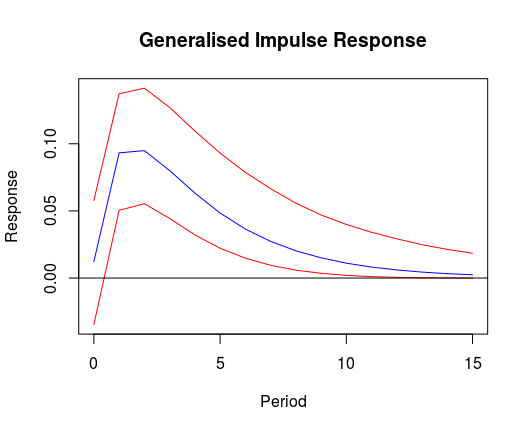
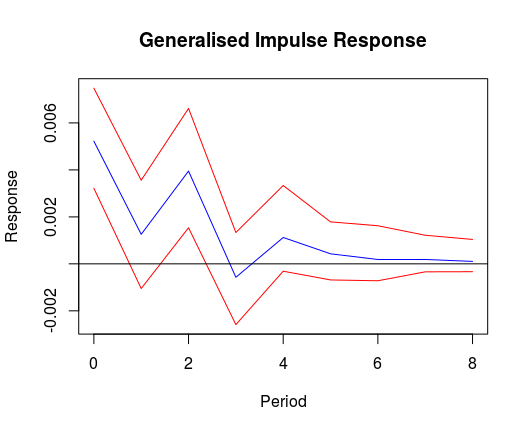
README Update

diff --git a/README.md b/README.md
@@ -28,63 +28,44 @@ Usage
 
 This example covers the estimation of a simple BVAR model. For further examples on time varying parameter (TVP), stochastic volatility (SV), and vector error correction models as well as shrinkage methods like stochastic search variable selection (SSVS) or Bayesian variable selection (BVS) see the vignettes of the package.
 
-### Generate an artificial sample
+### Data
 
-The artifical data set for this example is based on the process
-
-$$y\_{t} = \\pmatrix 0.4 & 0.3 & 0 \\\\ 0 & 0.6 & 0.1 \\\\ 0 & 0.2 & 0.2 \\pmatrix y\_{t-1} + u\_t.$$
-
-``` r
-# Number of endogenous variables
-k <- 3
-
-# Define A
-A <- matrix(c(.4, 0, 0, .3, .6, .2, 0, .1, .2), k)
-
-# Number of observations
-t <- 150
-
-# Set seed of random number generator for reproducibility
-set.seed(1234567)
-
-# Generate matrix with empty values
-y <- matrix(NA, 3, t + 1)
-
-# Initial value of the series
-y[, 1] <- rnorm(k, 0, .3)
-
-# Recursively calculate values of the series
-for (i in 2:(t + 1)) {
-  y[, i] <- A %*% y[, i - 1] + rnorm(k, 0, .3)
-}
-
-data <- ts(t(y)) # Transform into a 'time series' object
-dimnames(data)[[2]] <- c("s1", "s2", "s3") # Rename variables
-
-plot(data) # Plot the series
-```
-
-<img src="README_files/figure-markdown_github/art-data-1.png" style="display: block; margin: auto;" />
-
-### Prepare data for estimation
+To illustrate the estimation process the dataset E1 from Lütkepohl (2007) is used. It contains data on West German fixed investment, disposable income and consumption expenditures in billions of DM from 1960Q1 to 1982Q4.
 
 ``` r
 library(bvartools)
 
-temp <- gen_var(data, p = 1, deterministic = "none")
+data("e1")
+e1 <- diff(log(e1))
 
-y <- temp$y
-x <- temp$x
+plot(e1) # Plot the series
 ```
 
+<img src="README_files/figure-markdown_github/data-1.png" style="display: block; margin: auto;" />
+
+### Prepare data for estimation
+
+The `gen_var` function produces the inputs `y` and `x` for the BVAR estimator, where `y` is the matrix of dependent variables and `x` is the matrix of regressors.
+
+``` r
+data <- gen_var(e1, p = 2, deterministic = "const")
+
+y <- data$y[, 1:73]
+x <- data$x[, 1:73]
+```
+
+As in Lütkepohl (2007) only the first 73 observations are used.
+
 ### Estimation
+
+The following code sets up a simple Gibbs sampler algorithm.
 
 ``` r
 iter <- 10000 # Number of iterations of the Gibbs sampler
 burnin <- 2000 # Number of burn-in draws
 
 t <- ncol(y) # Number of observations
-k <- nrow(y) # Number of endogenous variables
+k <- NROW(y) # Number of endogenous variables
 nvars <- k * nrow(x) # Number of estimated coefficients
 
 # Set priors
@@ -103,7 +84,6 @@ Sigma_draw <- solve(Sigma_i_draw)
 store <- iter - burnin
 draws_A <- matrix(NA, nvars, store)
 draws_Sigma <- matrix(NA, k^2, store)
-draws_LL <- matrix(NA, t, store)
 
 # Start Gibbs sampler
 for (draw in 1:iter) {
@@ -120,9 +100,6 @@ for (draw in 1:iter) {
   if (draw > burnin) {
     draws_A[, draw - burnin] <- A_draw
     draws_Sigma[, draw - burnin] <- Sigma_draw
-    
-    # Calculate Log-Likelihood
-    draws_LL[, draw - burnin] <- loglik_gauss(res, Sigma_draw, Sigma_i_draw)
   }
 }
 ```
@@ -138,10 +115,10 @@ dimnames(A) <- list(dimnames(y)[[1]], dimnames(x)[[1]]) # Rename matrix dimensio
 A # Print
 ```
 
-    ##     s1.1 s2.1  s3.1
-    ## s1  0.46 0.28 -0.09
-    ## s2 -0.04 0.70  0.14
-    ## s3  0.06 0.24  0.17
+    ##        invest.1 income.1 cons.1 invest.2 income.2 cons.2 const
+    ## invest    -0.32     0.15   0.96    -0.16     0.11   0.94 -0.02
+    ## income     0.04    -0.15   0.29     0.05     0.02  -0.01  0.02
+    ## cons       0.00     0.23  -0.27     0.03     0.36  -0.02  0.01
 
 ``` r
 Sigma <- rowMeans(draws_Sigma) # Obtain means for every row
@@ -152,10 +129,10 @@ dimnames(Sigma) <- list(dimnames(y)[[1]], dimnames(y)[[1]]) # Rename matrix dime
 Sigma # Print
 ```
 
-    ##       s1  s2    s3
-    ## s1  0.08 0.0 -0.01
-    ## s2  0.00 0.1  0.00
-    ## s3 -0.01 0.0  0.09
+    ##        invest income cons
+    ## invest      0      0    0
+    ## income      0      0    0
+    ## cons        0      0    0
 
 The means of the coefficient draws are very close to the results of the frequentist estimatior and, hence, also close to the true parameter values.
 
@@ -172,7 +149,7 @@ bvar_est <- bvars(y = y, x = x, A = draws_A, Sigma = draws_Sigma)
 #### Forecast error impulse response
 
 ``` r
-IR <- irf(bvar_est, impulse = "s2", response = "s1", n.ahead = 15)
+IR <- irf(bvar_est, impulse = "income", response = "cons", n.ahead = 8)
 
 plot(IR, main = "Forecast Error Impulse Response", xlab = "Period", ylab = "Response")
 ```
@@ -182,7 +159,7 @@ plot(IR, main = "Forecast Error Impulse Response", xlab = "Period", ylab = "Resp
 #### Orthogonalised impulse response
 
 ``` r
-OIR <- irf(bvar_est, impulse = "s2", response = "s1", n.ahead = 15, type = "oir")
+OIR <- irf(bvar_est, impulse = "income", response = "cons", n.ahead = 8, type = "oir")
 
 plot(OIR, main = "Orthogonalised Impulse Response", xlab = "Period", ylab = "Response")
 ```
@@ -192,7 +169,7 @@ plot(OIR, main = "Orthogonalised Impulse Response", xlab = "Period", ylab = "Res
 #### Generalised impulse response
 
 ``` r
-GIR <- irf(bvar_est, impulse = "s2", response = "s1", n.ahead = 15, type = "gir")
+GIR <- irf(bvar_est, impulse = "income", response = "cons", n.ahead = 8, type = "gir")
 
 plot(GIR, main = "Generalised Impulse Response", xlab = "Period", ylab = "Response")
 ```
